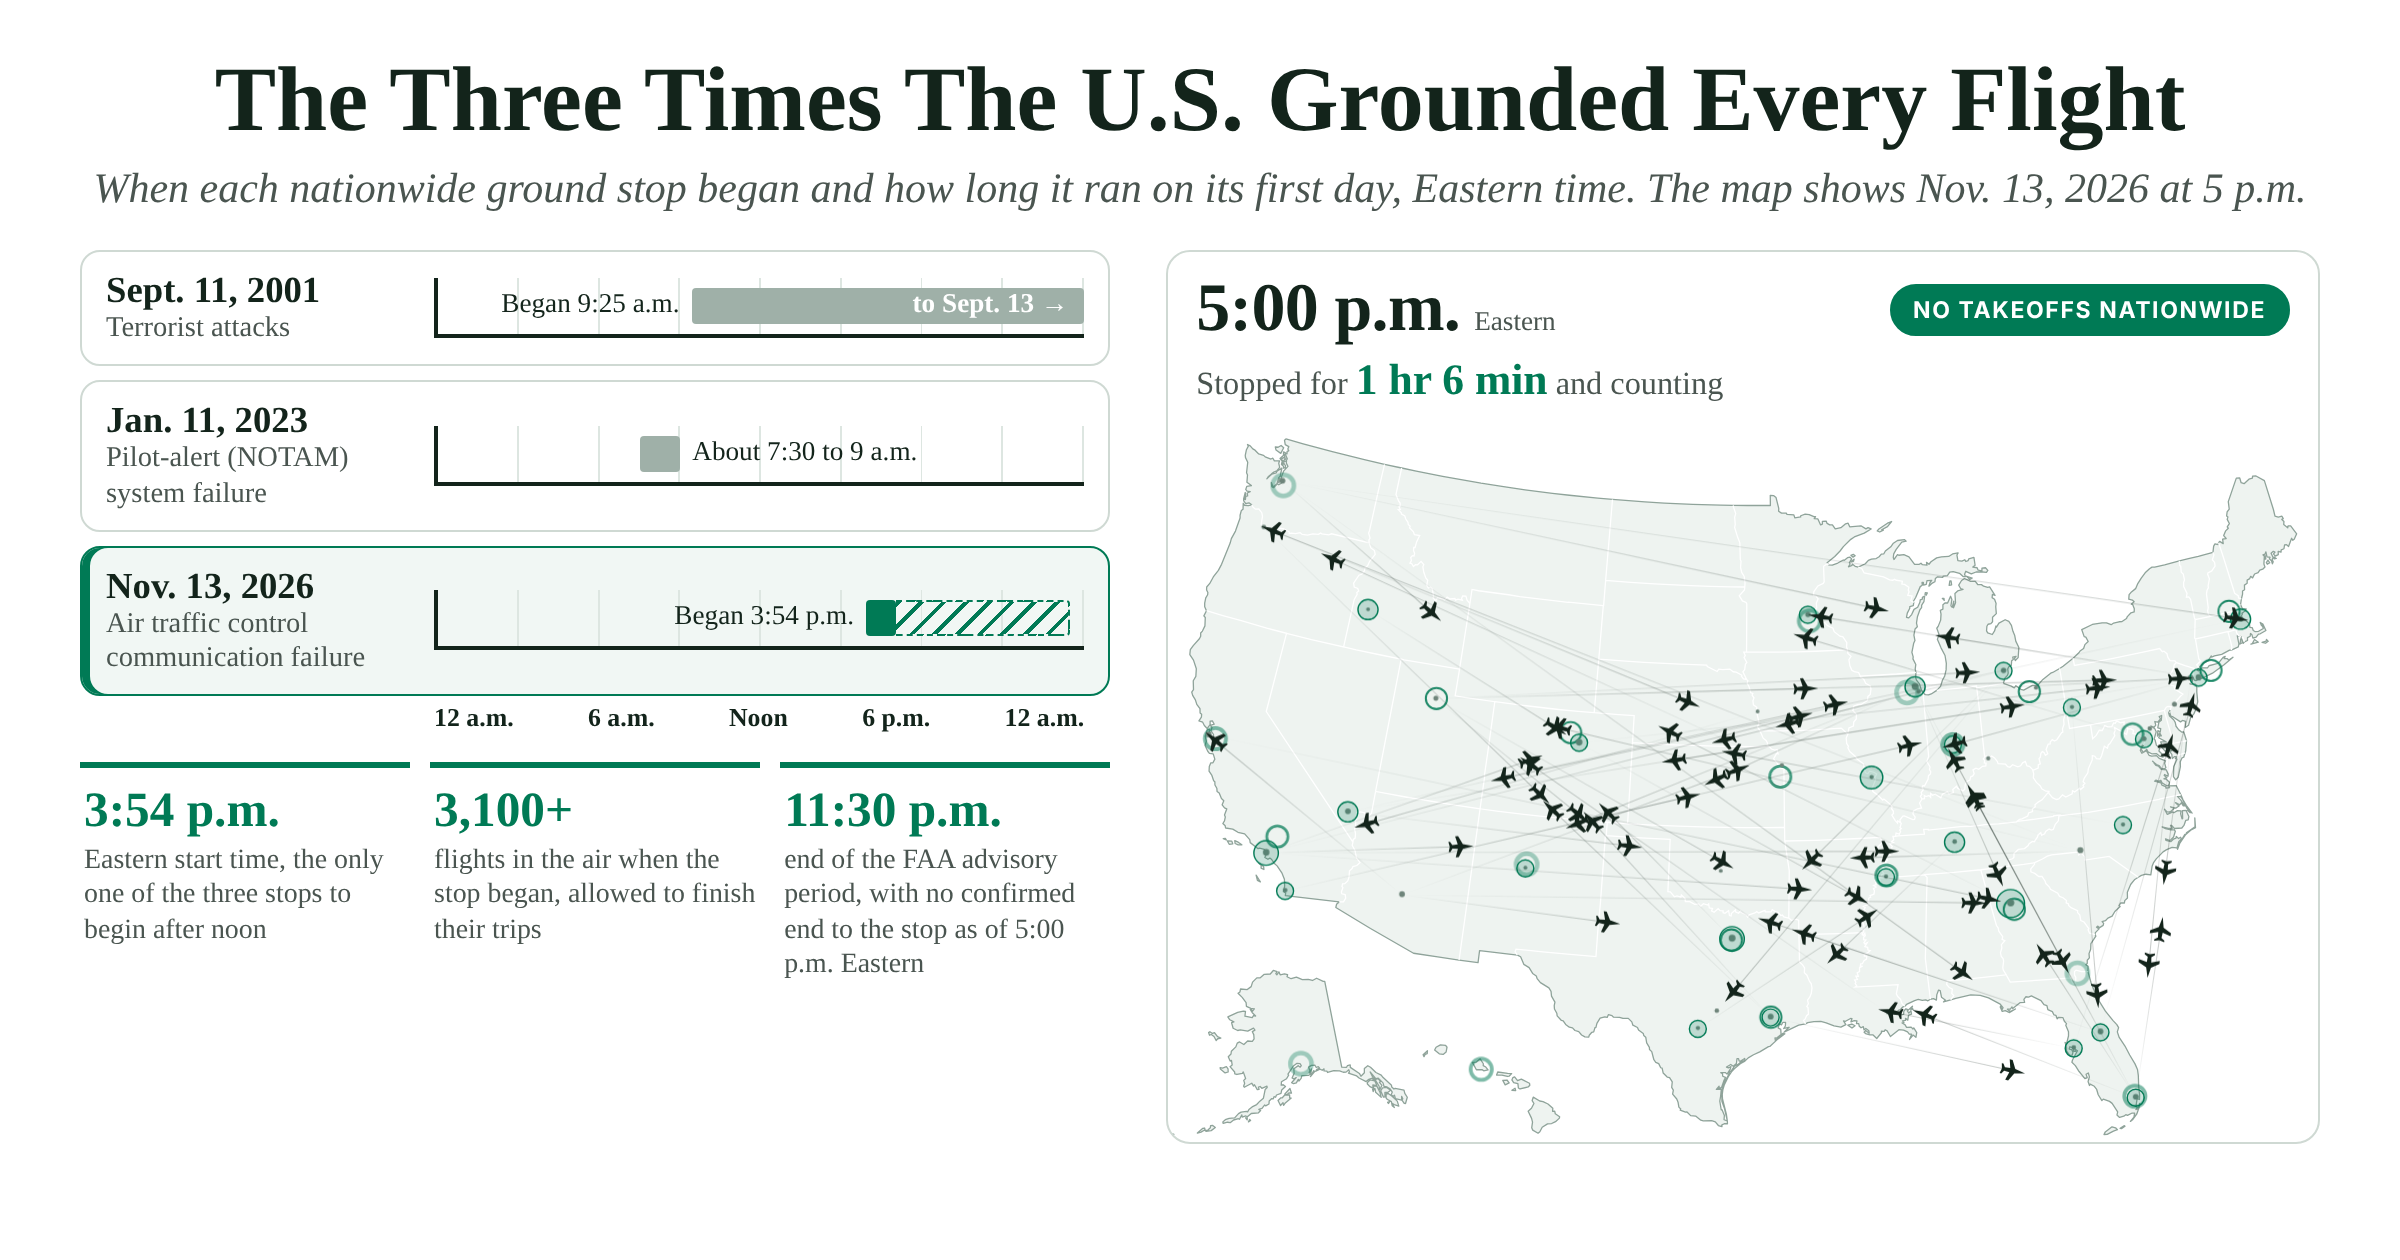
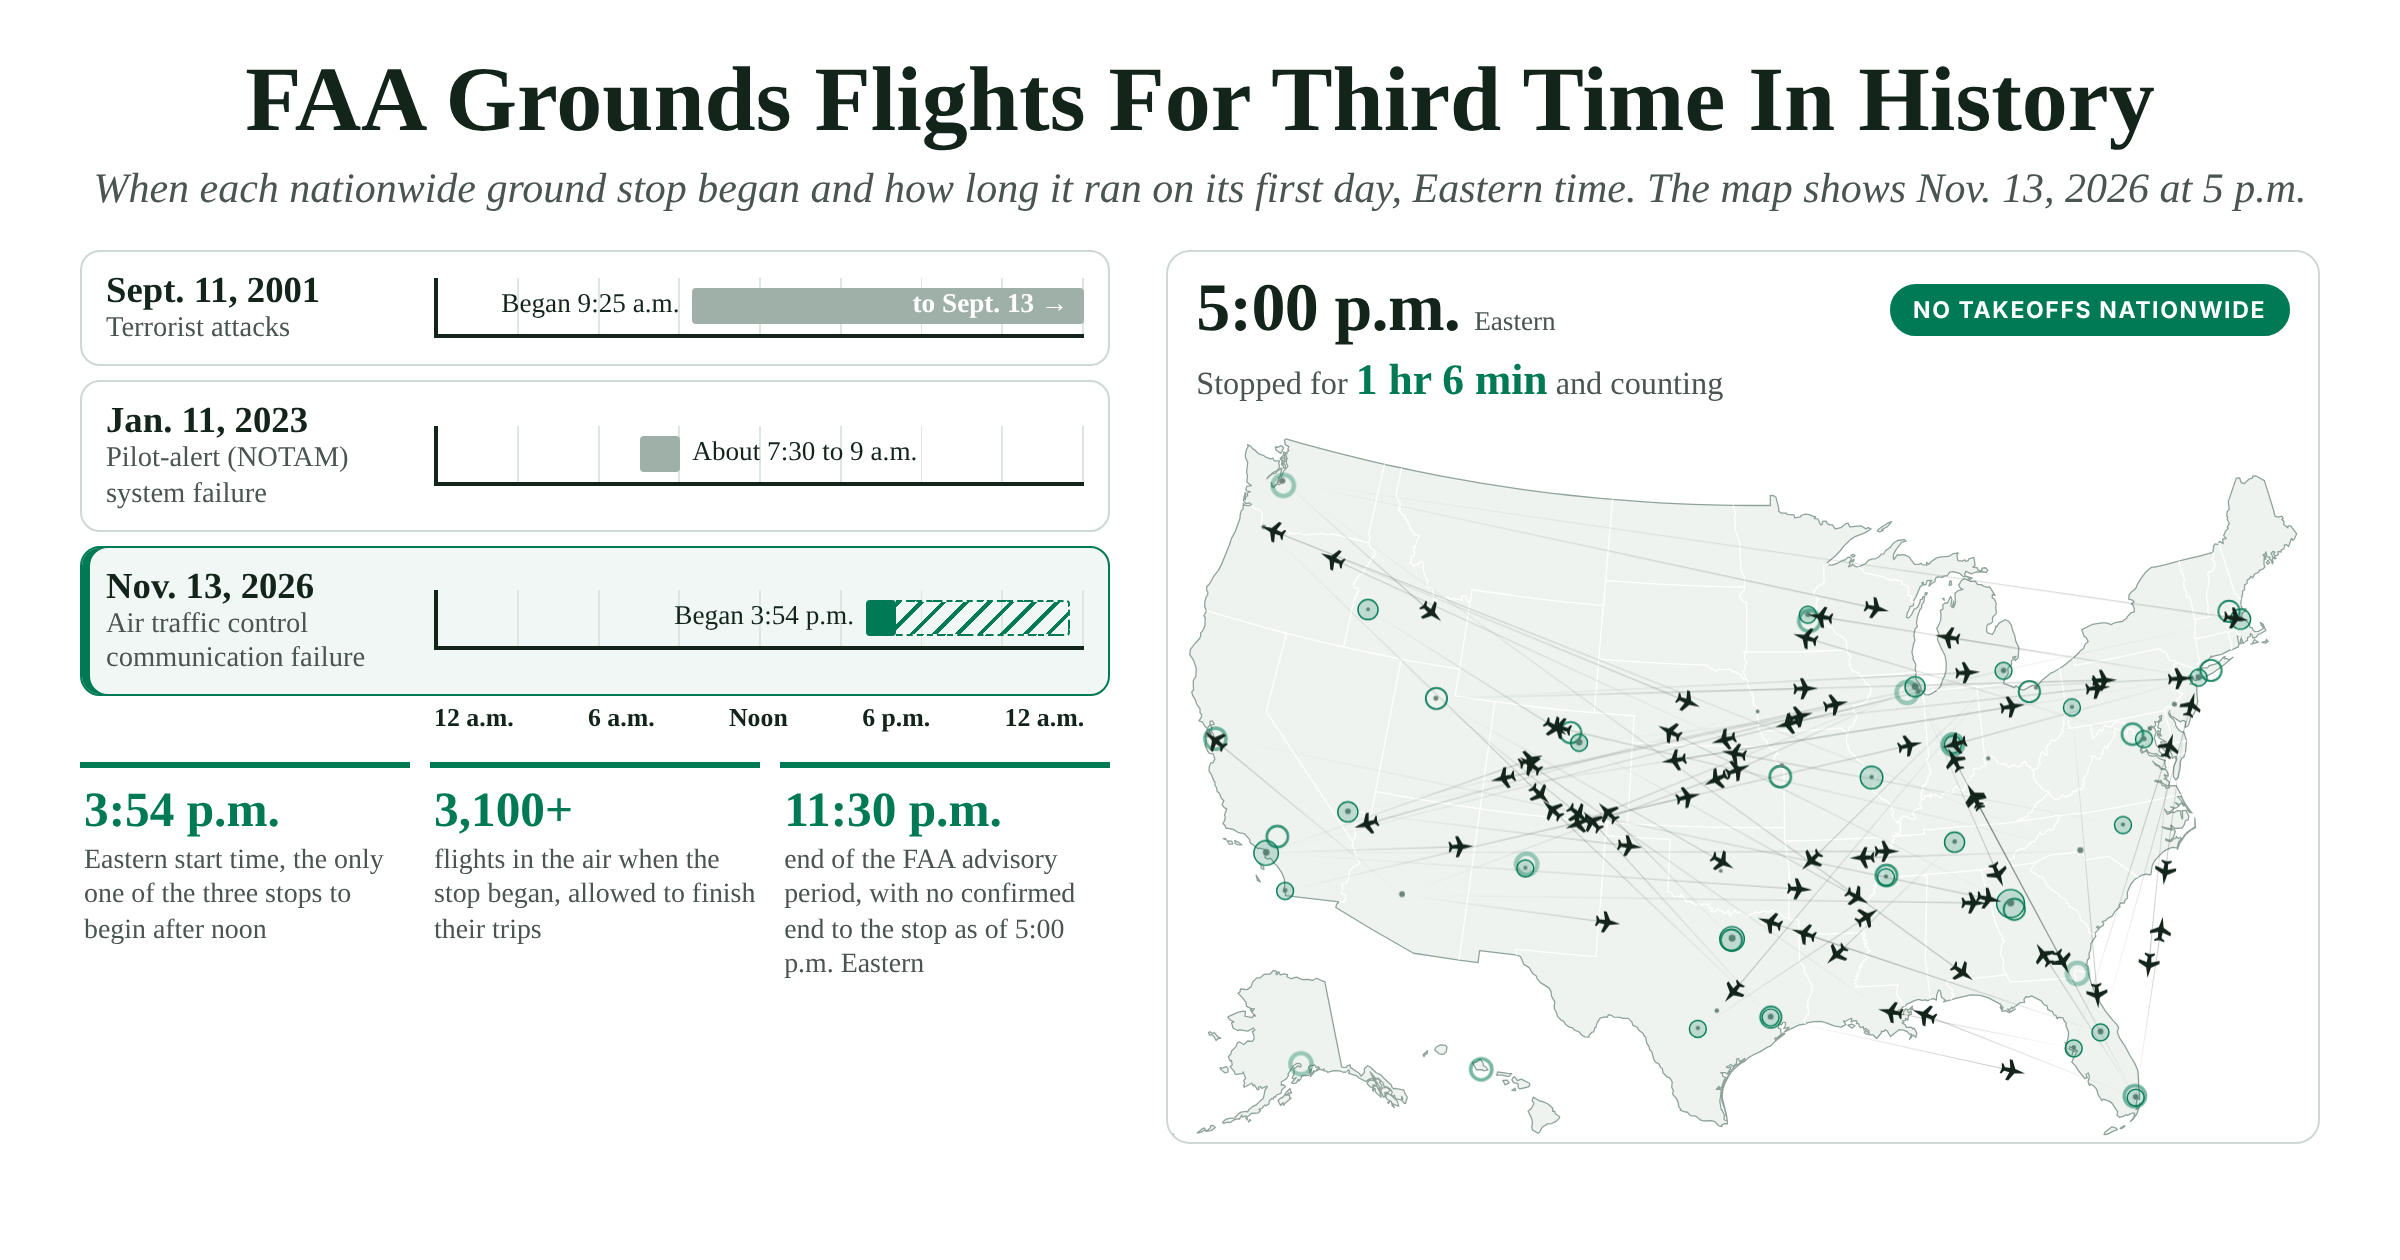
Ground stop: map-only first image and social image, new title
Claude-Session: https://claude.ai/code/session_01DsVn5xtcG4N1KcH9WY5jFa

Changed region(s): [[0.0938, 0.031, 0.9062, 0.1238]]

diff --git a/groundstop/index.html b/groundstop/index.html
@@ -1,8 +1,9 @@
 <!doctype html><meta charset="utf-8"><meta name="viewport" content="width=device-width,initial-scale=1"><meta name="robots" content="noindex"><title>Ground stop (preview)</title><body style="max-width:760px;margin:0 auto;padding:16px;font-family:Georgia,serif;background:#fff"><style>.nid-a h2{margin:1.6em 0 .5em}.nid-a .nid-fig{margin:2.4em auto;max-width:620px}.nid-a .nid-fig img{width:100%;height:auto;display:block;border:1px solid #e6e3dd;border-radius:6px}.nid-a .nid-photo{max-width:520px}.nid-a .nid-fig figcaption{font-size:.82em;color:#5f7268;margin-top:.5em;line-height:1.4}.nid-a .nid-method{font-size:.92em;margin-top:2em}.nid-a .nid-fig.nid-wide{max-width:100%}.nid-a .nid-wide img{border-radius:8px}</style><div class="nid-a">
 <p>The Federal Aviation Administration halted every departure in the United States at 3:54 p.m. Eastern on Friday, Nov. 13, the third nationwide ground stop in the agency's history and the first to begin after noon. The earlier two started at 9:25 a.m. on Sept. 11, 2001, and at about 7:30 a.m. on Jan. 11, 2023.</p>
+<figure class="nid-fig nid-wide"><img src="./groundstop-map.png?v=1" alt="Map of the United States at 5 p.m. Eastern on Nov. 13, 2026, about an hour into a nationwide ground stop, showing illustrative flights still in the air and airports holding departures." width="2160" height="1720"></figure>
 <div id="nid-gs"><figure class="nid-fig nid-wide"><img src="./groundstop-tall.png?v=1" alt="Three nationwide ground stops on a 24-hour clock: Sept. 11, 2001 began at 9:25 a.m. Eastern, Jan. 11, 2023 ran from about 7:30 to 9 a.m., and Nov. 13, 2026 began at 3:54 p.m." width="2160" height="2700"></figure></div>
 <p>As of 5 p.m. Eastern on Friday the stop was still in effect, 1 hour and 6 minutes after it began. The FAA's advisory ran through 11:30 p.m., though the agency told airlines to hold departures until further notice, so that time is a planning window that can move in either direction.</p>
-<p>Pick one of the three days above and press play to watch it unfold. Each plane on the map stands for roughly 25 aircraft, and the positions are illustrative.</p>
+<p>Pick one of the three days in the replay above and press play to watch it unfold. Each plane on the map stands for roughly 25 aircraft, and the positions are illustrative.</p>
 <h2>What happened on Friday</h2>
 <p>The trouble showed up first in Chicago. At about 3:10 p.m. Eastern the FAA stopped flights bound for O'Hare over communications problems, and Midway followed three minutes later. The nationwide order came about 44 minutes after the first Chicago stop.</p>
 <p>A ground stop holds planes at their departure airports while flights already in the air keep going. More than 3,100 flights were airborne when Friday's order went out, according to TheStreet, and they were allowed to continue to their destinations. That is the main difference from 2001, when the FAA ordered all 4,546 aircraft then in the sky to land at the nearest airport.</p>
@@ -20,4 +21,4 @@
 <p>This story reflects what was known at 5 p.m. Eastern on Nov. 13, 2026. We will update the end time, the cause and the final delay counts as the FAA and FlightAware report them.</p>
 <p class="nid-method"><em>How we counted: Start times for Nov. 13, 2026 come from the FAA command center advisory as reported by <a href="https://gizmodo.com/faa-issues-nationwide-ground-stop-due-to-extraordinary-circumstances-2000839944">Gizmodo</a>, <a href="https://www.thestreet.com/travel/faa-issues-nationwide-ground-stop-due-to-communication-issues">TheStreet</a> and <a href="https://abcnews.com/US/nationwide-ground-stop-ordered-airports-faa/story?id=138121848">ABC News</a>. The 2023 times are approximate, since reports differ by about 10 minutes on the start; cancellation and delay counts are FlightAware's, as reported by <a href="https://www.npr.org/2023/01/12/1148480971/faa-notam-outage-ground-stop">NPR</a>. The 2001 timeline is from the <a href="https://rosap.ntl.bts.gov/view/dot/39244/dot_39244_DS1.pdf">FAA's historical chronology</a>, and the airborne counts between 9:29 a.m. and 12:16 p.m. are from a <a href="https://johnstonsarchive.net/terrorism/terrchron2.html">published compilation</a> of FAA figures. The 2001 count covers all aircraft and the 2026 figure covers flights, so the two are not directly comparable. On the map, planes fly made-up routes between 42 large airports; only the 2001 plane count follows real data. Daily screening figures are from the TSA. <a href="../data/the-faa-has-halted-every-us-departure-only-three-times-and-the-nov-13-stop-is-the-first-to-start-after-noon.csv">Download our data (CSV)</a>.</em></p>
 </div>
-<script src="./embed.js?v=1"></script>
+<script src="./embed.js?v=2"></script>

diff --git a/groundstop/post-body.html b/groundstop/post-body.html
@@ -1,8 +1,9 @@
 <style>.nid-a h2{margin:1.6em 0 .5em}.nid-a .nid-fig{margin:2.4em auto;max-width:620px}.nid-a .nid-fig img{width:100%;height:auto;display:block;border:1px solid #e6e3dd;border-radius:6px}.nid-a .nid-photo{max-width:520px}.nid-a .nid-fig figcaption{font-size:.82em;color:#5f7268;margin-top:.5em;line-height:1.4}.nid-a .nid-method{font-size:.92em;margin-top:2em}.nid-a .nid-fig.nid-wide{max-width:100%}.nid-a .nid-wide img{border-radius:8px}</style><div class="nid-a">
 <p>The Federal Aviation Administration halted every departure in the United States at 3:54 p.m. Eastern on Friday, Nov. 13, the third nationwide ground stop in the agency's history and the first to begin after noon. The earlier two started at 9:25 a.m. on Sept. 11, 2001, and at about 7:30 a.m. on Jan. 11, 2023.</p>
+<figure class="nid-fig nid-wide"><img src="https://stories.thenewsindata.com/groundstop/groundstop-map.png?v=1" alt="Map of the United States at 5 p.m. Eastern on Nov. 13, 2026, about an hour into a nationwide ground stop, showing illustrative flights still in the air and airports holding departures." width="2160" height="1720"></figure>
 <div id="nid-gs"><figure class="nid-fig nid-wide"><img src="https://stories.thenewsindata.com/groundstop/groundstop-tall.png?v=1" alt="Three nationwide ground stops on a 24-hour clock: Sept. 11, 2001 began at 9:25 a.m. Eastern, Jan. 11, 2023 ran from about 7:30 to 9 a.m., and Nov. 13, 2026 began at 3:54 p.m." width="2160" height="2700"></figure></div>
 <p>As of 5 p.m. Eastern on Friday the stop was still in effect, 1 hour and 6 minutes after it began. The FAA's advisory ran through 11:30 p.m., though the agency told airlines to hold departures until further notice, so that time is a planning window that can move in either direction.</p>
-<p>Pick one of the three days above and press play to watch it unfold. Each plane on the map stands for roughly 25 aircraft, and the positions are illustrative.</p>
+<p>Pick one of the three days in the replay above and press play to watch it unfold. Each plane on the map stands for roughly 25 aircraft, and the positions are illustrative.</p>
 <h2>What happened on Friday</h2>
 <p>The trouble showed up first in Chicago. At about 3:10 p.m. Eastern the FAA stopped flights bound for O'Hare over communications problems, and Midway followed three minutes later. The nationwide order came about 44 minutes after the first Chicago stop.</p>
 <p>A ground stop holds planes at their departure airports while flights already in the air keep going. More than 3,100 flights were airborne when Friday's order went out, according to TheStreet, and they were allowed to continue to their destinations. That is the main difference from 2001, when the FAA ordered all 4,546 aircraft then in the sky to land at the nearest airport.</p>
@@ -20,4 +21,4 @@
 <p>This story reflects what was known at 5 p.m. Eastern on Nov. 13, 2026. We will update the end time, the cause and the final delay counts as the FAA and FlightAware report them.</p>
 <p class="nid-method"><em>How we counted: Start times for Nov. 13, 2026 come from the FAA command center advisory as reported by <a href="https://gizmodo.com/faa-issues-nationwide-ground-stop-due-to-extraordinary-circumstances-2000839944">Gizmodo</a>, <a href="https://www.thestreet.com/travel/faa-issues-nationwide-ground-stop-due-to-communication-issues">TheStreet</a> and <a href="https://abcnews.com/US/nationwide-ground-stop-ordered-airports-faa/story?id=138121848">ABC News</a>. The 2023 times are approximate, since reports differ by about 10 minutes on the start; cancellation and delay counts are FlightAware's, as reported by <a href="https://www.npr.org/2023/01/12/1148480971/faa-notam-outage-ground-stop">NPR</a>. The 2001 timeline is from the <a href="https://rosap.ntl.bts.gov/view/dot/39244/dot_39244_DS1.pdf">FAA's historical chronology</a>, and the airborne counts between 9:29 a.m. and 12:16 p.m. are from a <a href="https://johnstonsarchive.net/terrorism/terrchron2.html">published compilation</a> of FAA figures. The 2001 count covers all aircraft and the 2026 figure covers flights, so the two are not directly comparable. On the map, planes fly made-up routes between 42 large airports; only the 2001 plane count follows real data. Daily screening figures are from the TSA. <a href="https://stories.thenewsindata.com/data/the-faa-has-halted-every-us-departure-only-three-times-and-the-nov-13-stop-is-the-first-to-start-after-noon.csv">Download our data (CSV)</a>.</em></p>
 </div>
-<script src="https://stories.thenewsindata.com/groundstop/embed.js?v=1"></script>
+<script src="https://stories.thenewsindata.com/groundstop/embed.js?v=2"></script>

diff --git a/groundstop/src/static.html b/groundstop/src/static.html
@@ -18,7 +18,14 @@ body.tall .wrap{padding:36px 44px 0}body.tall h1{font-size:43px}body.tall .sub{f
 body.tall #nid-gs{font-size:24px}body.tall #nid-gs .track{height:44px}body.tall #nid-gs .bar{height:28px;top:7px}body.tall #nid-gs .row{grid-template-columns:270px 1fr;padding:10px 16px}body.tall #nid-gs .axis{grid-template-columns:270px 1fr}
 body.tall #nid-gs .clock{font-size:60px}body.tall #nid-gs .pill{font-size:17px;padding:8px 16px}body.tall #nid-gs .stat{font-size:22px}body.tall #nid-gs .cap,body.tall #nid-gs .facts{display:none}body.tall #nid-gs .stage{margin-top:10px}
 body.tall #nid-gs .facts{grid-template-columns:repeat(3,1fr);margin-top:24px}
+body.map #nid-gs .rows,body.map #nid-gs .axis,body.map #nid-gs .facts,body.map #nid-gs .cap,body.map #nid-gs .hud,body.mapwide #nid-gs .rows,body.mapwide #nid-gs .axis,body.mapwide #nid-gs .facts,body.mapwide #nid-gs .cap,body.mapwide #nid-gs .hud{display:none!important}
+body.map #nid-gs .leg,body.mapwide #nid-gs .leg{display:flex!important;font-size:19px;padding-top:6px}
+body.map #nid-gs .leg span:last-child,body.mapwide #nid-gs .leg span:last-child{display:none}
+body.map #nid-gs .stage,body.mapwide #nid-gs .stage{border:0;margin-top:0}
+body.map .wrap{padding:30px 40px 0}body.map h1{font-size:43px}body.map .sub{font-size:23px;margin-bottom:6px;max-width:940px;margin-left:auto;margin-right:auto}
+body.mapwide .wrap{padding:16px 40px 0}body.mapwide h1{font-size:40px;margin-bottom:4px}body.mapwide .sub{font-size:19px;margin-bottom:0}
+body.mapwide #nid-gs{width:800px;margin:0 auto!important}body.mapwide #nid-gs .leg{font-size:15px;padding-top:0}
 </style>
-<body><div class="wrap"><h1>The Three Times The U.S. Grounded Every Flight</h1>
-<p class="sub">When each nationwide ground stop began and how long it ran on its first day, Eastern time. The map shows Nov. 13, 2026 at 5 p.m.</p>
-<div id="nid-gs"></div></div><script>document.body.className=location.hash.slice(1)||"lead"</script><script src="../embed.js"></script>
+<body><div class="wrap"><h1>FAA Grounds Flights For Third Time In History</h1>
+<p class="sub" id="sub">When each nationwide ground stop began and how long it ran on its first day, Eastern time. The map shows Nov. 13, 2026 at 5 p.m.</p>
+<div id="nid-gs"></div></div><script>document.body.className=location.hash.slice(1)||"lead";if(/map/.test(document.body.className))document.getElementById("sub").textContent="Flights in the air and airports holding departures at 5 p.m. Eastern on Nov. 13, 2026, about an hour into the nationwide ground stop. Each plane is about 25 aircraft, placed for illustration.";</script><script src="../embed.js"></script>

diff --git a/groundstop/home-lead.html b/groundstop/home-lead.html
@@ -1,11 +1,11 @@
 <div class="lead">
   <div>
     <p class="kicker">Top story &middot; Trending</p>
-    <h1><a href="/stories/the-faa-has-halted-every-us-departure-only-three-times-and-the-nov-13-stop-is-the-first-to-start-after-noon">The three times the U.S. grounded every flight</a></h1>
+    <h1><a href="/stories/the-faa-has-halted-every-us-departure-only-three-times-and-the-nov-13-stop-is-the-first-to-start-after-noon">FAA grounds flights for third time in history</a></h1>
     <p class="dek">The FAA halted every departure in the country at 3:54 p.m. Eastern on Nov. 13. It has done that only twice before, on Sept. 11, 2001, and for about 90 minutes in January 2023, and both of those stops began in the morning.</p>
     <div class="stats"><div class="hi"><b>3</b><span>nationwide ground stops in FAA history</span></div><div><b>3:54 p.m.</b><span>Eastern start on Nov. 13, the first after noon</span></div><div><b>3,100+</b><span>flights in the air when it began</span></div></div>
     <a class="more" href="/stories/the-faa-has-halted-every-us-departure-only-three-times-and-the-nov-13-stop-is-the-first-to-start-after-noon">Read the story &rsaquo;</a>
   </div>
   <div class="poster" id="nid-gs-home"><a href="/stories/the-faa-has-halted-every-us-departure-only-three-times-and-the-nov-13-stop-is-the-first-to-start-after-noon"><img src="https://stories.thenewsindata.com/groundstop/groundstop-tall.png" alt="Three nationwide ground stops on a 24-hour clock: Sept. 11, 2001 began at 9:25 a.m. Eastern, Jan. 11, 2023 ran from about 7:30 to 9 a.m., and Nov. 13, 2026 began at 3:54 p.m." loading="eager"></a></div>
 </div>
-<script src="https://stories.thenewsindata.com/groundstop/embed.js?v=1"></script>
+<script src="https://stories.thenewsindata.com/groundstop/embed.js?v=2"></script>

diff --git a/more/more.js b/more/more.js
@@ -5,7 +5,7 @@
 var BASE='https://stories.thenewsindata.com/more/';
 var SITE='https://www.thenewsindata.com';
 var PICKS=[
-['groundstop','Trending',"The Three Times The U.S. Grounded Every Flight",'the-faa-has-halted-every-us-departure-only-three-times-and-the-nov-13-stop-is-the-first-to-start-after-noon'],
+['groundstop','Trending',"FAA Grounds Flights For Third Time In History",'the-faa-has-halted-every-us-departure-only-three-times-and-the-nov-13-stop-is-the-first-to-start-after-noon'],
 ['dating','Culture',"What Black Singles Want In A Partner, And What Rules One Out",'black-singles-agree-on-most-dating-priorities-but-81-of-women-and-50-of-men-say-financial-stability-matters'],
 ['glp1','Science',"One In 10 U.S. Adults Took A GLP-1 Drug In The Past Year",'one-in-10-us-adults-took-a-glp-1-drug-in-the-past-year-and-nearly-half-of-those-with-diabetes-did'],
 ['dp','Trending',"Death Penalty Support Fell Below Half For The First Time Since 1971",'support-for-the-death-penalty-fell-to-49-the-first-reading-below-half-since-1971'],

diff --git a/groundstop/src/shots.py b/groundstop/src/shots.py
@@ -2,7 +2,7 @@ from playwright.sync_api import sync_playwright
 base="file:///home/claude/newsindata-stories/groundstop/"
 with sync_playwright() as p:
     b=p.chromium.launch(executable_path="/usr/bin/google-chrome",args=["--no-sandbox"])
-    for name,w,h,mode in [("groundstop-lead.png",1200,630,"lead"),("groundstop-tall.png",1080,1350,"tall")]:
+    for name,w,h,mode in [("groundstop-lead.png",1200,630,"lead"),("groundstop-tall.png",1080,1350,"tall"),("groundstop-map.png",1080,860,"map"),("groundstop-map-social.png",1200,630,"mapwide")]:
         pg=b.new_page(viewport={"width":w,"height":h},device_scale_factor=2)
         pg.goto(base+"src/static.html#"+mode);pg.wait_for_timeout(600)
         pg.screenshot(path="/home/claude/newsindata-stories/groundstop/"+name)
